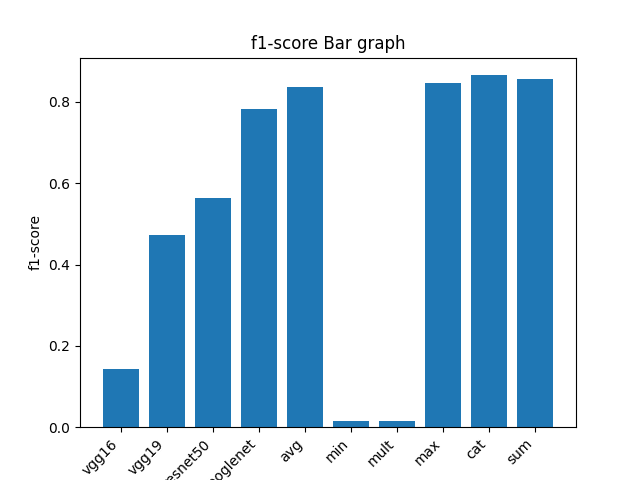
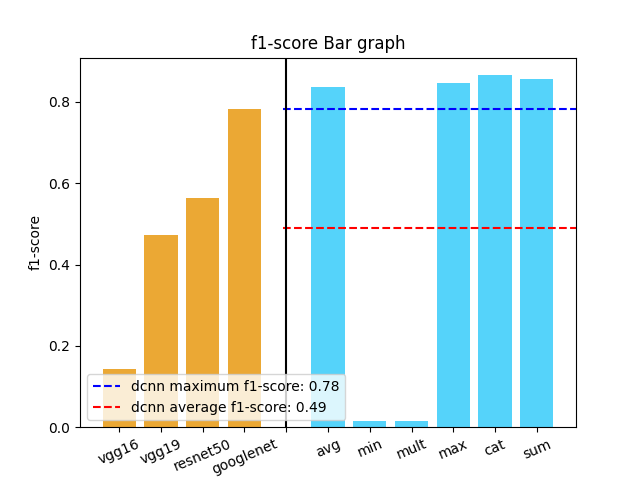
contiued to make the bar graphs look better

diff --git a/dcnn/metrics_agg.py b/dcnn/metrics_agg.py
@@ -2,21 +2,37 @@
 import os 
 import matplotlib.pyplot as plt
 
-def create_bar(dcnns, fusions,  col, path="metrics"):
+def create_bar(dcnns, fusions,  col, path="metrics", dcnn_color="#eba834", fusion_color="#55d3fa"):
     cat = []
     val = [] 
+    c = []
     for model, metrics in dcnns.items():
         m = metrics[col] 
         cat.append(model)
         val.append(m)
-    
+        c.append(dcnn_color)
+    n_dcnns = len(val)
+    max_val = max(val)
+    avg_val = sum(val)/n_dcnns
+    c.append(dcnn_color)
+    cat.append(" ")
+    val.append(0)
+
     for model, metrics in fusions.items():
         m = metrics[col] 
         cat.append(model)
         val.append(m)
-
-    plt.bar(cat, val)
-    plt.xticks(rotation=45, ha="right")
+        c.append(fusion_color)
+    plt.bar(cat, val, color=c)
+    plt.axhline(y=max_val, xmin=(n_dcnns+.5)/len(val),
+                 color="b", linestyle ="--", label=f"dcnn maximum {col}: {max_val:.2f}")
+    
+    plt.axhline(y=avg_val, xmin=(n_dcnns+.5)/len(val),
+                 color="r", linestyle ="--", label=f"dcnn average {col}: {avg_val:.2f}")
+    plt.legend(loc=3)
+    
+    plt.axvline(x= n_dcnns, color="k")
+    plt.xticks(rotation=23)
     plt.xlabel('Models')
     plt.ylabel(f"{col}")
     plt.title(f"{col} Bar graph")
